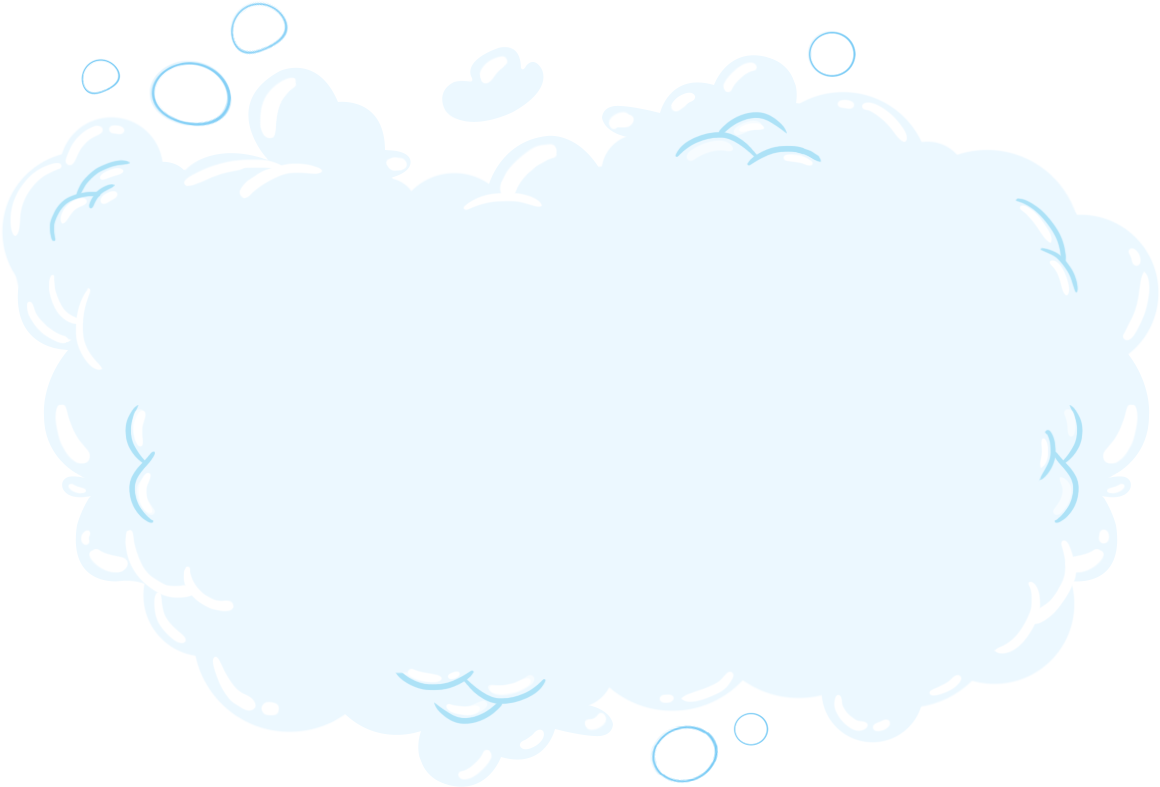
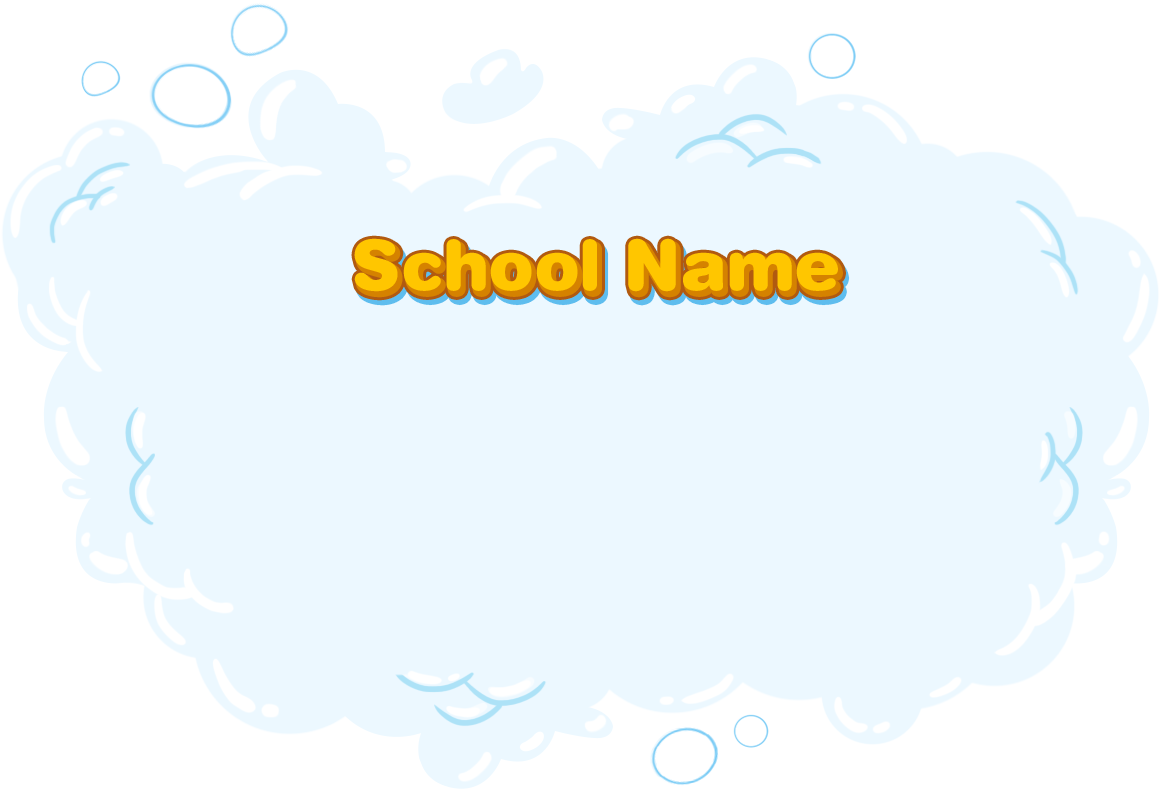
update layout new school

diff --git a/src/layers/MainApp/NewSchoolLayer.js b/src/layers/MainApp/NewSchoolLayer.js
@@ -23,34 +23,33 @@ var NewSchoolLayer = cc.Layer.extend({
 
         this.addChild(holder);
 
-        font =  "hud-font.fnt";
+        // font =  res.YellowFont_fnt;
 
-        var label = new cc.LabelBMFont("School Name", font);
-        lb.x = holder.width/2 - lb.width;
-        lb.y = holder.height/2 + lb.height;
-        holder.addChild(lb);
-        cc.log("lb width", lb.width/2);
+        // var lb = new cc.LabelBMFont("School Name", font);
+        // lb.x = holder.width/2;
+        // lb.y = holder.height/2 + lb.height + 20;
+        // holder.addChild(lb);
+        // cc.log("lb width", lb.width/2);
 
         var fieldHolder = new cc.Sprite("#search_field.png");
-        fieldHolder.x = holder.width/2 + fieldHolder.width/2;
-        fieldHolder.y = lb.y;
+        fieldHolder.x = holder.width/2;
+        fieldHolder.y = holder.height/2- fieldHolder.height/2;
 
         var tf = new ccui.TextField("Your School Name", "Arial", 26);
 
         tf.x = fieldHolder.width / 2;
         tf.y = fieldHolder.height / 2;
-
-        tf.setTextColor(cc.color.GREEN);
+        
         tf.setTouchSize(cc.size(fieldHolder.width, fieldHolder.height));
-        tf.color = cc.color.RED;
+        tf.color = cc.color.YELLOW;
         tf.setTouchAreaEnabled(true);
         this._tf = tf;
         fieldHolder.addChild(tf);
         holder.addChild(fieldHolder);
 
-        var btn = new ccui.Button("create-button.png","","");
+        var btn = new ccui.Button("create-btn.png","create-btn-pressed.png","", ccui.Widget.PLIST_TEXTURE);
         btn.x = holder.width/2;
-        btn.y = holder.height/2 - btn.height;
+        btn.y = holder.height/2 - btn.height*1.5;
         holder.addChild(btn);
 
         var self = this;

diff --git a/src/layers/MainApp/NewAccountLayer.js b/src/layers/MainApp/NewAccountLayer.js
@@ -78,7 +78,7 @@ var NewAccountLayer = cc.Layer.extend({
         holder.x = -100;
         this.addChild(holder);
 
-        font =  "hud-font.fnt";
+        font =  res.YellowFont_fnt;
 
         var lbName = new cc.LabelBMFont("Student Name", font);
         lbName.setAnchorPoint(1, 0.5);
